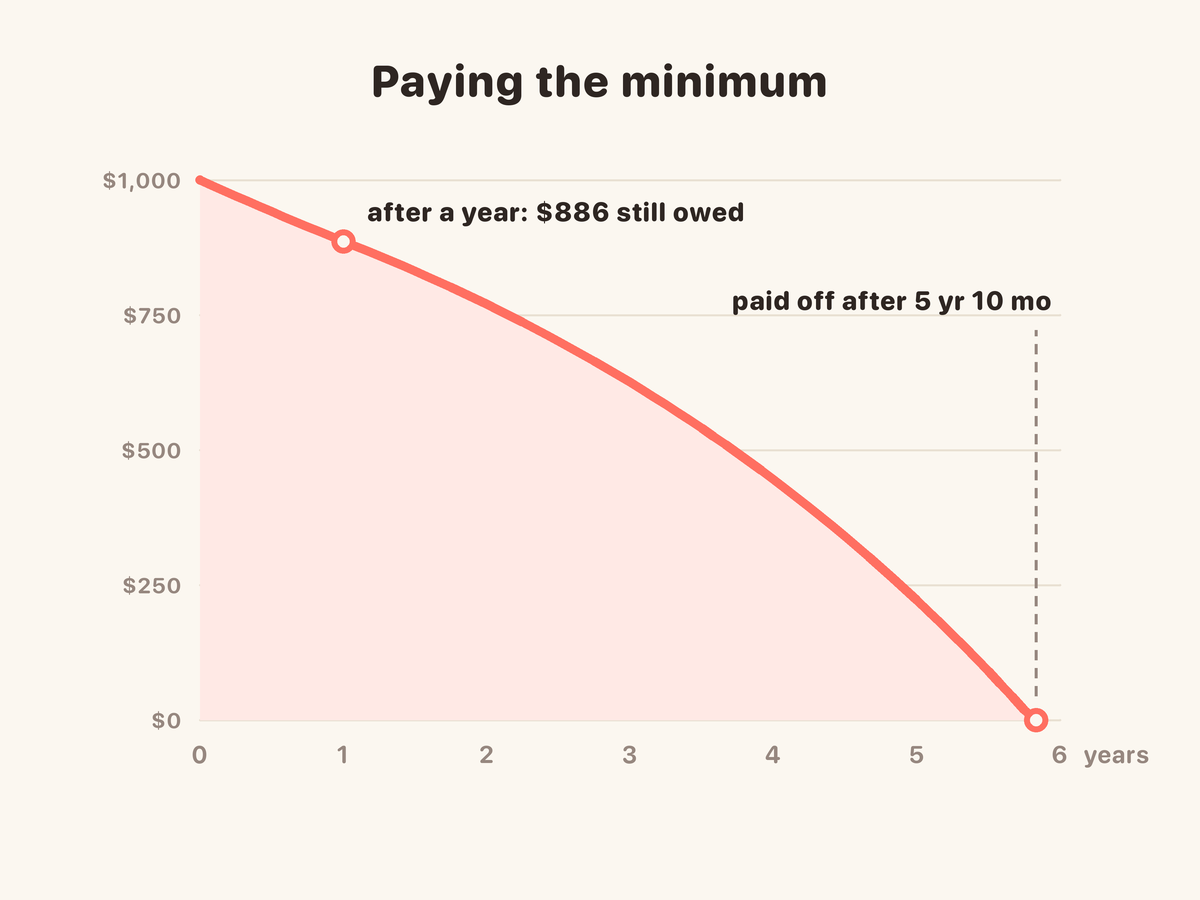
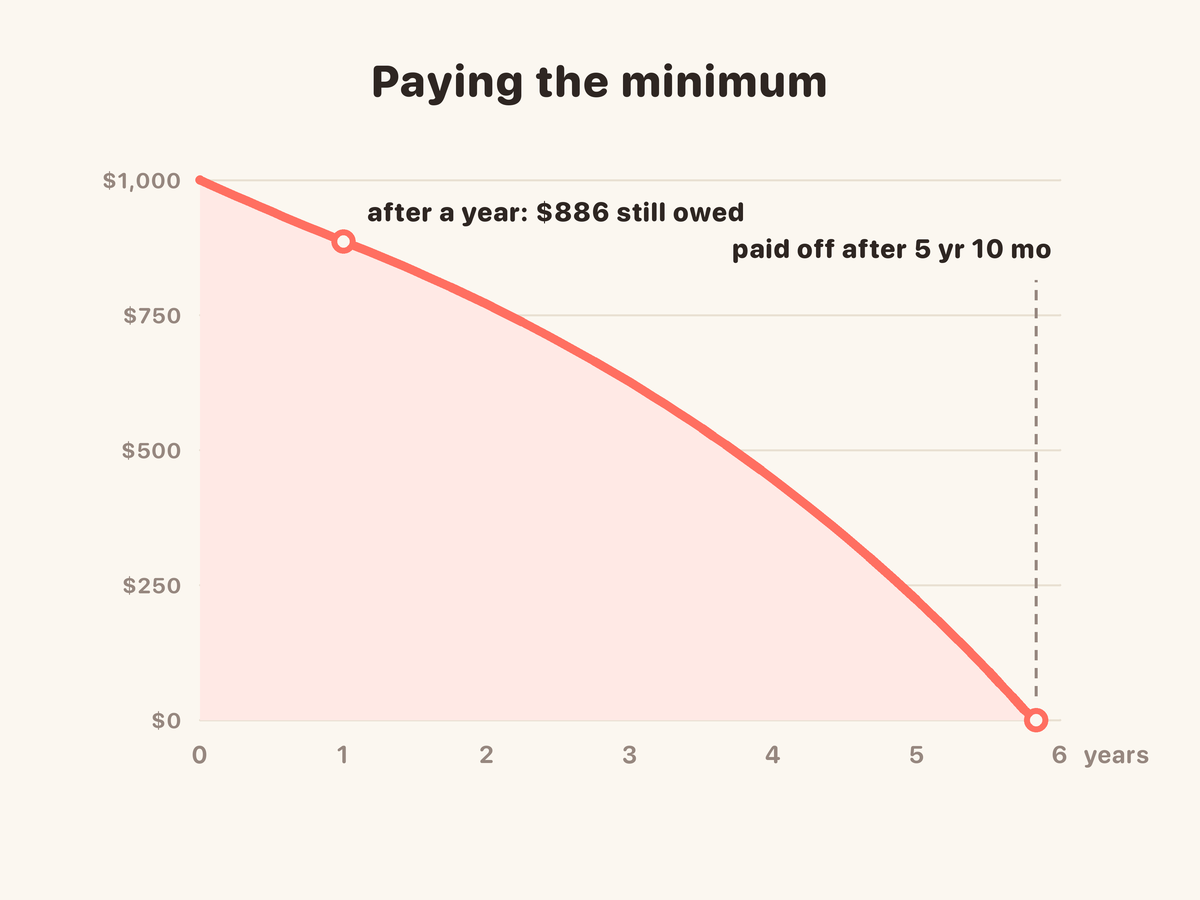
Charts: no label may touch a line
lib.py now records every text box and every line segment and reports collisions
on save (text on a line, text on text). Five charts were caught and their labels
moved; deliberate strike-throughs use a separate strike() that the check ignores.
The compound-interest charts now run on the shared lib so they get checked too.

Changed region(s): [[0.6167, 0.2489, 0.8942, 0.3422]]

diff --git a/design/lesson-art/fin-1/charts.py b/design/lesson-art/fin-1/charts.py
@@ -5,60 +5,18 @@ A painting cannot be trusted with a number, so anything with a figure on it is d
 here, in the app's own font, and every value is computed rather than typed. Output is
 1200x900 (4:3 at @3x for a 400x300pt card), supersampled 3x for clean strokes.
 """
-import math, os
+import math, os, sys
 from PIL import Image, ImageDraw, ImageFont
 
 OUT = os.path.dirname(os.path.abspath(__file__))
-W, H, SS = 1200, 900, 3
-FONT = "/System/Library/Fonts/SFNSRounded.ttf"
-CREAM = (251, 247, 240); INK = (46, 38, 34); MUTED = (150, 135, 127); FAINT = (232, 224, 210)
-CORAL = (255, 111, 97); MINT = (87, 199, 155); GOLD = (255, 194, 75); SKY = (111, 163, 220)
-MINT_SOFT = (221, 245, 234); CORAL_SOFT = (255, 233, 229)
+sys.path.insert(0, os.path.join(os.path.dirname(os.path.abspath(__file__)), ".."))
+from lib import *
+from lib import Canvas as _Canvas
 
-_fc = {}
-def font(size, weight="Heavy"):
-    key = (int(size * SS), weight)
-    if key not in _fc:
-        f = ImageFont.truetype(FONT, key[0])
-        try: f.set_variation_by_name(weight)
-        except Exception: pass
-        _fc[key] = f
-    return _fc[key]
-
-class Canvas:
-    def __init__(self):
-        self.im = Image.new("RGB", (W * SS, H * SS), CREAM)
-        self.d = ImageDraw.Draw(self.im, "RGBA")
-    def p(self, x, y): return (x * SS, y * SS)
-    def text(self, s, x, y, size, colour=INK, weight="Heavy", anchor="mm"):
-        self.d.text(self.p(x, y), s, font=font(size, weight), fill=colour, anchor=anchor)
-    def width(self, s, size, weight="Heavy"):
-        return self.d.textlength(s, font=font(size, weight)) / SS
-    def line(self, pts, colour, w):
-        self.d.line([self.p(*q) for q in pts], fill=colour, width=int(w * SS), joint="curve")
-        for q in (pts[0], pts[-1]):
-            self.dot(*q, w / 2, colour)
-    def dot(self, x, y, r, colour):
-        x, y, r = x * SS, y * SS, r * SS
-        self.d.ellipse([x - r, y - r, x + r, y + r], fill=colour)
-    def rrect(self, x0, y0, x1, y1, r, fill, outline=None, ow=0):
-        self.d.rounded_rectangle([self.p(x0, y0), self.p(x1, y1)], radius=int(r * SS), fill=fill,
-                                 outline=outline, width=int(ow * SS))
-    def area(self, pts, base_y, colour):
-        poly = [self.p(*q) for q in pts] + [self.p(pts[-1][0], base_y), self.p(pts[0][0], base_y)]
-        self.d.polygon(poly, fill=colour)
-    def dash(self, x0, y0, x1, y1, colour, w=3, on=10, off=8):
-        L = math.hypot(x1 - x0, y1 - y0); n = int(L // (on + off)) + 1
-        for i in range(n):
-            t0 = min(1, i * (on + off) / L); t1 = min(1, (i * (on + off) + on) / L)
-            self.d.line([self.p(x0 + (x1 - x0) * t0, y0 + (y1 - y0) * t0),
-                         self.p(x0 + (x1 - x0) * t1, y0 + (y1 - y0) * t1)], fill=colour, width=int(w * SS))
+class Canvas(_Canvas):
+    """The shared canvas, saving by bare name into this folder."""
     def save(self, name):
-        self.im.resize((W, H), Image.LANCZOS).save(os.path.join(OUT, name), "PNG")
-        print("wrote", name)
-
-def money(v):
-    return "$" + f"{int(round(v)):,}"
+        super().save(os.path.join(OUT, name))
 
 # ---------------------------------------------------------------- 1: one year
 def chart_year_one():
@@ -127,7 +85,7 @@ def chart_thirty():
         v = 1000 * 1.08 ** t
         x = x0 + (x1 - x0) * t / 30; y = y1 - (y1 - y0) * v / ymax
         c.dot(x, y, 12, CORAL); c.dot(x, y, 6, CREAM)
-        c.text(money(v), x - (30 if t == 30 else 0), y - 44, 32, anchor="mm" if t < 30 else "rm")
+        c.text(money(v), x - 22, y - 26 if t < 30 else y - 44, 32, anchor="rm")
     c.save("chart-03-thirty-years.png")
 
 # ---------------------------------------------------------------- 4: simple vs compound
@@ -140,7 +98,7 @@ def chart_simple_vs_compound():
     curve(c, 30, lambda t: 1000 + 80 * t, x0, x1, y0, y1, ymax, SKY)
     curve(c, 30, lambda t: 1000 * 1.08 ** t, x0, x1, y0, y1, ymax, CORAL)
     ys = y1 - (y1 - y0) * 3400 / ymax; yc = y1 - (y1 - y0) * 10063 / ymax
-    c.text("$3,400  simple", x1 - 10, ys + 44, 30, SKY, anchor="rm")
+    c.text("$3,400  simple", x1 - 10, ys - 58, 30, SKY, anchor="rm")
     c.text("$10,063  compound", x1 - 10, yc - 44, 30, CORAL, anchor="rm")
     c.save("chart-04-simple-vs-compound.png")
 

diff --git a/design/lesson-art/lib.py b/design/lesson-art/lib.py
@@ -21,18 +21,32 @@ def font(size, weight="Heavy"):
     return _fc[key]
 
 class Canvas:
+    """Every text() call records its box and every line()/dash() records its segments, so
+    save() can shout when a label sits on a line. George, 2026-09-11: no text may cross a
+    line on any chart."""
     def __init__(self):
         self.im = Image.new("RGB", (W * SS, H * SS), CREAM)
         self.d = ImageDraw.Draw(self.im, "RGBA")
+        self._texts = []; self._segs = []
     def p(self, x, y): return (x * SS, y * SS)
     def text(self, s, x, y, size, colour=INK, weight="Heavy", anchor="mm"):
-        self.d.text(self.p(x, y), s, font=font(size, weight), fill=colour, anchor=anchor)
+        f = font(size, weight)
+        self.d.text(self.p(x, y), s, font=f, fill=colour, anchor=anchor)
+        b = self.d.textbbox(self.p(x, y), s, font=f, anchor=anchor)
+        self._texts.append((tuple(v / SS for v in b), s))
     def width(self, s, size, weight="Heavy"):
         return self.d.textlength(s, font=font(size, weight)) / SS
     def line(self, pts, colour, w):
         self.d.line([self.p(*q) for q in pts], fill=colour, width=int(w * SS), joint="curve")
         for q in (pts[0], pts[-1]):
             self.dot(*q, w / 2, colour)
+        for a, b in zip(pts, pts[1:]):
+            self._segs.append((a[0], a[1], b[0], b[1], w))
+    def strike(self, x0, y0, x1, y1, colour, w=8):
+        """A deliberate line through text (a crossed-out word). Not a chart line, so it is
+        not recorded for the collision check."""
+        self.d.line([self.p(x0, y0), self.p(x1, y1)], fill=colour, width=int(w * SS))
+        self.dot(x0, y0, w / 2, colour); self.dot(x1, y1, w / 2, colour)
     def dot(self, x, y, r, colour):
         x, y, r = x * SS, y * SS, r * SS
         self.d.ellipse([x - r, y - r, x + r, y + r], fill=colour)
@@ -43,14 +57,36 @@ class Canvas:
         poly = [self.p(*q) for q in pts] + [self.p(pts[-1][0], base_y), self.p(pts[0][0], base_y)]
         self.d.polygon(poly, fill=colour)
     def dash(self, x0, y0, x1, y1, colour, w=3, on=10, off=8):
+        self._segs.append((x0, y0, x1, y1, w))
         L = math.hypot(x1 - x0, y1 - y0); n = int(L // (on + off)) + 1
         for i in range(n):
             t0 = min(1, i * (on + off) / L); t1 = min(1, (i * (on + off) + on) / L)
             self.d.line([self.p(x0 + (x1 - x0) * t0, y0 + (y1 - y0) * t0),
                          self.p(x0 + (x1 - x0) * t1, y0 + (y1 - y0) * t1)], fill=colour, width=int(w * SS))
+    def collisions(self, margin=6):
+        """Text boxes that a line passes through, with a little breathing room."""
+        hits = []
+        for (x0, y0, x1, y1), s in self._texts:
+            rx0, ry0, rx1, ry1 = x0 - margin, y0 - margin, x1 + margin, y1 + margin
+            for ax, ay, bx, by, w in self._segs:
+                L = max(1, math.hypot(bx - ax, by - ay)); n = int(L // 3) + 1
+                for i in range(n + 1):
+                    t = i / n; px, py = ax + (bx - ax) * t, ay + (by - ay) * t
+                    if rx0 - w / 2 <= px <= rx1 + w / 2 and ry0 - w / 2 <= py <= ry1 + w / 2:
+                        hits.append(s); break
+                else:
+                    continue
+                break
+        # and text boxes that sit on each other
+        for i, ((a0, b0, a1, b1), s) in enumerate(self._texts):
+            for (c0, d0, c1, d1), t in self._texts[i + 1:]:
+                if a0 < c1 and c0 < a1 and b0 < d1 and d0 < b1:
+                    hits.append(f"{s} / {t}")
+        return hits
     def save(self, path):
         self.im.resize((W, H), Image.LANCZOS).save(path, "PNG")
-        print("wrote", path)
+        hits = self.collisions()
+        print("wrote", path, ("  COLLISION: " + " | ".join(repr(h) for h in hits)) if hits else "")
 
 def money(v):
     return "$" + f"{int(round(v)):,}"

diff --git a/design/lesson-art/psy-3/figures.py b/design/lesson-art/psy-3/figures.py
@@ -29,7 +29,7 @@ def either_way():
         # the ticket under each branch, spent both ways
         c.rrect(x - 150, 600, x + 150, 720, 28, WHITE, outline=FAINT, ow=4)
         c.text("$15", x, 645, 40, MUTED)
-        c.line([(x - 60, 645), (x + 60, 645)], CORAL, 8)
+        c.strike(x - 60, 645, x + 60, 645, CORAL, 8)
         c.text("spent either way", x, 695, 22, MUTED, "Bold")
     c.text("The ticket does not get a vote", 600, 810, 30, MUTED, "Bold")
     c.save(f"{OUT}/fig-02-either-way.png")
@@ -66,7 +66,7 @@ def the_line():
     for label, x in above:
         c.rrect(x - 140, y - 200, x + 140, y - 90, 28, FAINT)
         c.text(label, x, y - 145, 30, MUTED)
-        c.line([(x - 90, y - 145), (x + 90, y - 145)], CORAL, 8)
+        c.strike(x - 90, y - 145, x + 90, y - 145, CORAL, 8)
     below = [("90 minutes", 300), ("tonight", 600), ("3 more semesters", 900)]
     for label, x in below:
         c.rrect(x - 135, y + 90, x + 135, y + 200, 28, MINT)

diff --git a/design/lesson-art/work-1/figures.py b/design/lesson-art/work-1/figures.py
@@ -76,10 +76,10 @@ def nine_years():
     c.line(pts, STONE, 9)
     ty = y1 - (y1 - y0) * YOU * 2 / ymax
     c.dash(x0, ty, x1, ty, MINT, 4)
-    c.text(f"{money(YOU * 2)}: the match gets you here on day one", x0 + 10, ty - 28, 24, MINT, "Bold", anchor="lm")
+    c.text(f"{money(YOU * 2)} on day one, with the match", x0 + 10, ty - 30, 24, MINT, "Bold", anchor="lm")
     tx = x0 + (x1 - x0) * 9 / 10
     c.dot(tx, ty, 12, STONE); c.dot(tx, ty, 6, CREAM)
-    c.text("on your own: 9 years", tx - 20, ty + 40, 24, INK, "Bold", anchor="rm")
+    c.text("on your own: 9 years", tx + 6, ty - 44, 24, INK, "Bold", anchor="rm")
     c.save(f"{OUT}/fig-05-nine-years.png")
 
 def vesting():

diff --git a/design/lesson-art/fin-11/figures.py b/design/lesson-art/fin-11/figures.py
@@ -76,8 +76,8 @@ def slide():
     x, y = pts[-1]
     c.dot(x, y, 12, CORAL); c.dot(x, y, 6, CREAM)
     n = len(MIN) - 1
-    c.dash(x, y - 24, x, 330, MUTED, 3)
-    c.text(f"paid off after {ym(n)}", x + 16, 300, 26, INK, anchor="rm")
+    c.dash(x, y - 24, x, 280, MUTED, 3)
+    c.text(f"paid off after {ym(n)}", x + 16, 248, 26, INK, anchor="rm")
     c.save(f"{OUT}/fig-03-slide.png")
 
 # ---------------------------------------------------------------- 4: what you paid

diff --git a/design/lesson-art/ppl-5/figures.py b/design/lesson-art/ppl-5/figures.py
@@ -40,7 +40,7 @@ def but_if():
         word = "but" if i == 0 else "if"
         c.rrect(760, y + 20, 1080, y + 110, 30, CORAL_SOFT)
         c.text(word, 920, y + 65, 40, CORAL)
-        c.line([(880, y + 65), (960, y + 65)], CORAL, 8)
+        c.strike(880, y + 65, 960, y + 65, CORAL, 8)
         c.text(means, 120, y + 210, 28, MUTED, "Bold", anchor="lm")
     c.save(f"{OUT}/fig-06-but-if.png")
 

diff --git a/design/lesson-art/study-1/figures.py b/design/lesson-art/study-1/figures.py
@@ -74,7 +74,6 @@ def spaced():
     for day in range(0, 6):
         x = x0 + (x1 - x0) * day / 7
         c.dot(x, y1 - (y1 - y0) * 1.0, 11, MINT); c.dot(x, y1 - (y1 - y0) * 1.0, 5, CREAM)
-    c.text("10 min", x0 + 26, y0 - 2, 22, MINT, "Bold", anchor="lm")
     c.text("each slip is smaller than the last", x0 + 20, y1 - 40, 24, MINT, "Bold", anchor="lm")
     c.save(f"{OUT}/fig-04-spaced.png")
 

diff --git a/design/lesson-art/psy-6/figures.py b/design/lesson-art/psy-6/figures.py
@@ -29,7 +29,7 @@ def node(c, x, y, label, fill, ink=(255, 255, 255), sub=None, strike=False):
     c.text(label, x, y - (12 if sub else 0), 34, ink)
     if sub: c.text(sub, x, y + 30, 22, ink, "Bold")
     if strike:
-        c.line([(x - 120, y), (x + 120, y)], CORAL, 10)
+        c.strike(x - 120, y, x + 120, y, CORAL, 10)
 
 def loop(swap=False):
     c = Canvas()
